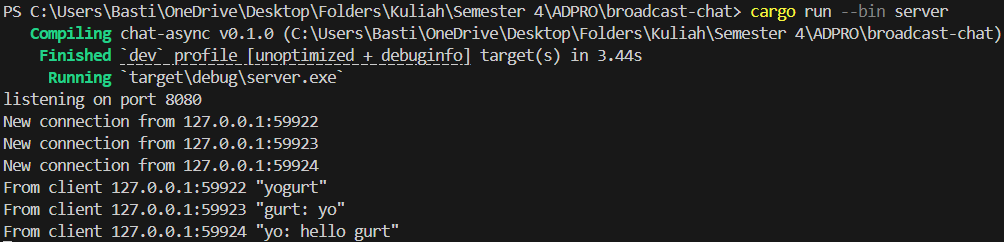
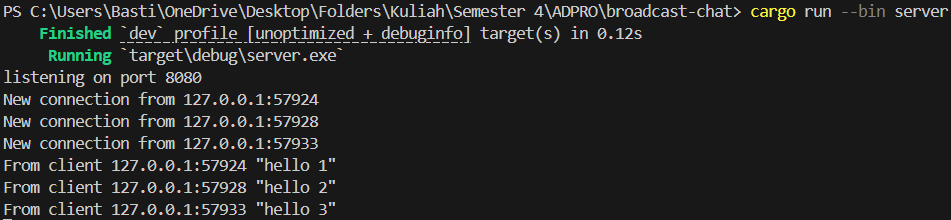
Experiment 2.3: Small changes, add IP and Port (fix)

Changed region(s): [[0.0, 0.1091, 1.0, 1.0], [0.0, 0.0, 1.0, 0.0818]]

diff --git a/README.md b/README.md
@@ -20,6 +20,6 @@ Untuk mengubah port yang digunakan pada aplikasi chat ini, diperlukan modifikasi
 
 ## Small changes, add IP and Port
 
-Saya melakukan perubahan pada *server side* karena server sudah melacak pesan mana yang sesuai dengan alamat klien tertentu. Ketika klien pertama kali terhubung, server membuat sebuah *thread* asinkronus baru yang bertugas menangani *message streams* dari klien tersebut. Setiap koneksi klien mendapatkan *thread* dan *handler* terpisah dengan informasi alamat socket yang disimpan dalam parameter `addr`. 
+Saya melakukan perubahan pada *server side* karena server sudah melacak pesan mana yang sesuai dengan alamat klien tertentu. Ketika klien pertama kali terhubung, server membuat sebuah *thread* asinkronus baru yang bertugas menangani *message streams* dari klien tersebut. Setiap koneksi klien mendapatkan *thread* dan *handler* terpisah dengan informasi alamat socket yang disimpan dalam parameter `addr`.
 
-Dengan memodifikasi baris `bcast_tx.send(text.into())?;` menjadi `bcast_tx.send(format!("{addr:?} {text:?}"))?;`, saya memanfaatkan parameter `addr` yang sudah tersedia untuk menyisipkan informasi alamat pengirim pada pesan yang di-broadcast. Hal ini memungkinkan semua klien yang terhubung dapat melihat dengan jelas dari mana pesan berasal.
+Dengan memodifikasi baris `bcast_tx.send(text.into())?;` menjadi `bcast_tx.send(format!("{addr:?} {text:?}"))?;`, saya memanfaatkan parameter `addr` yang sudah tersedia untuk menyisipkan informasi alamat pengirim pada pesan yang di-broadcast. Hal ini terlihat jelas pada gambar, dimana setiap pesan yang diterima klien menampilkan alamat IP dan port pengirim.
